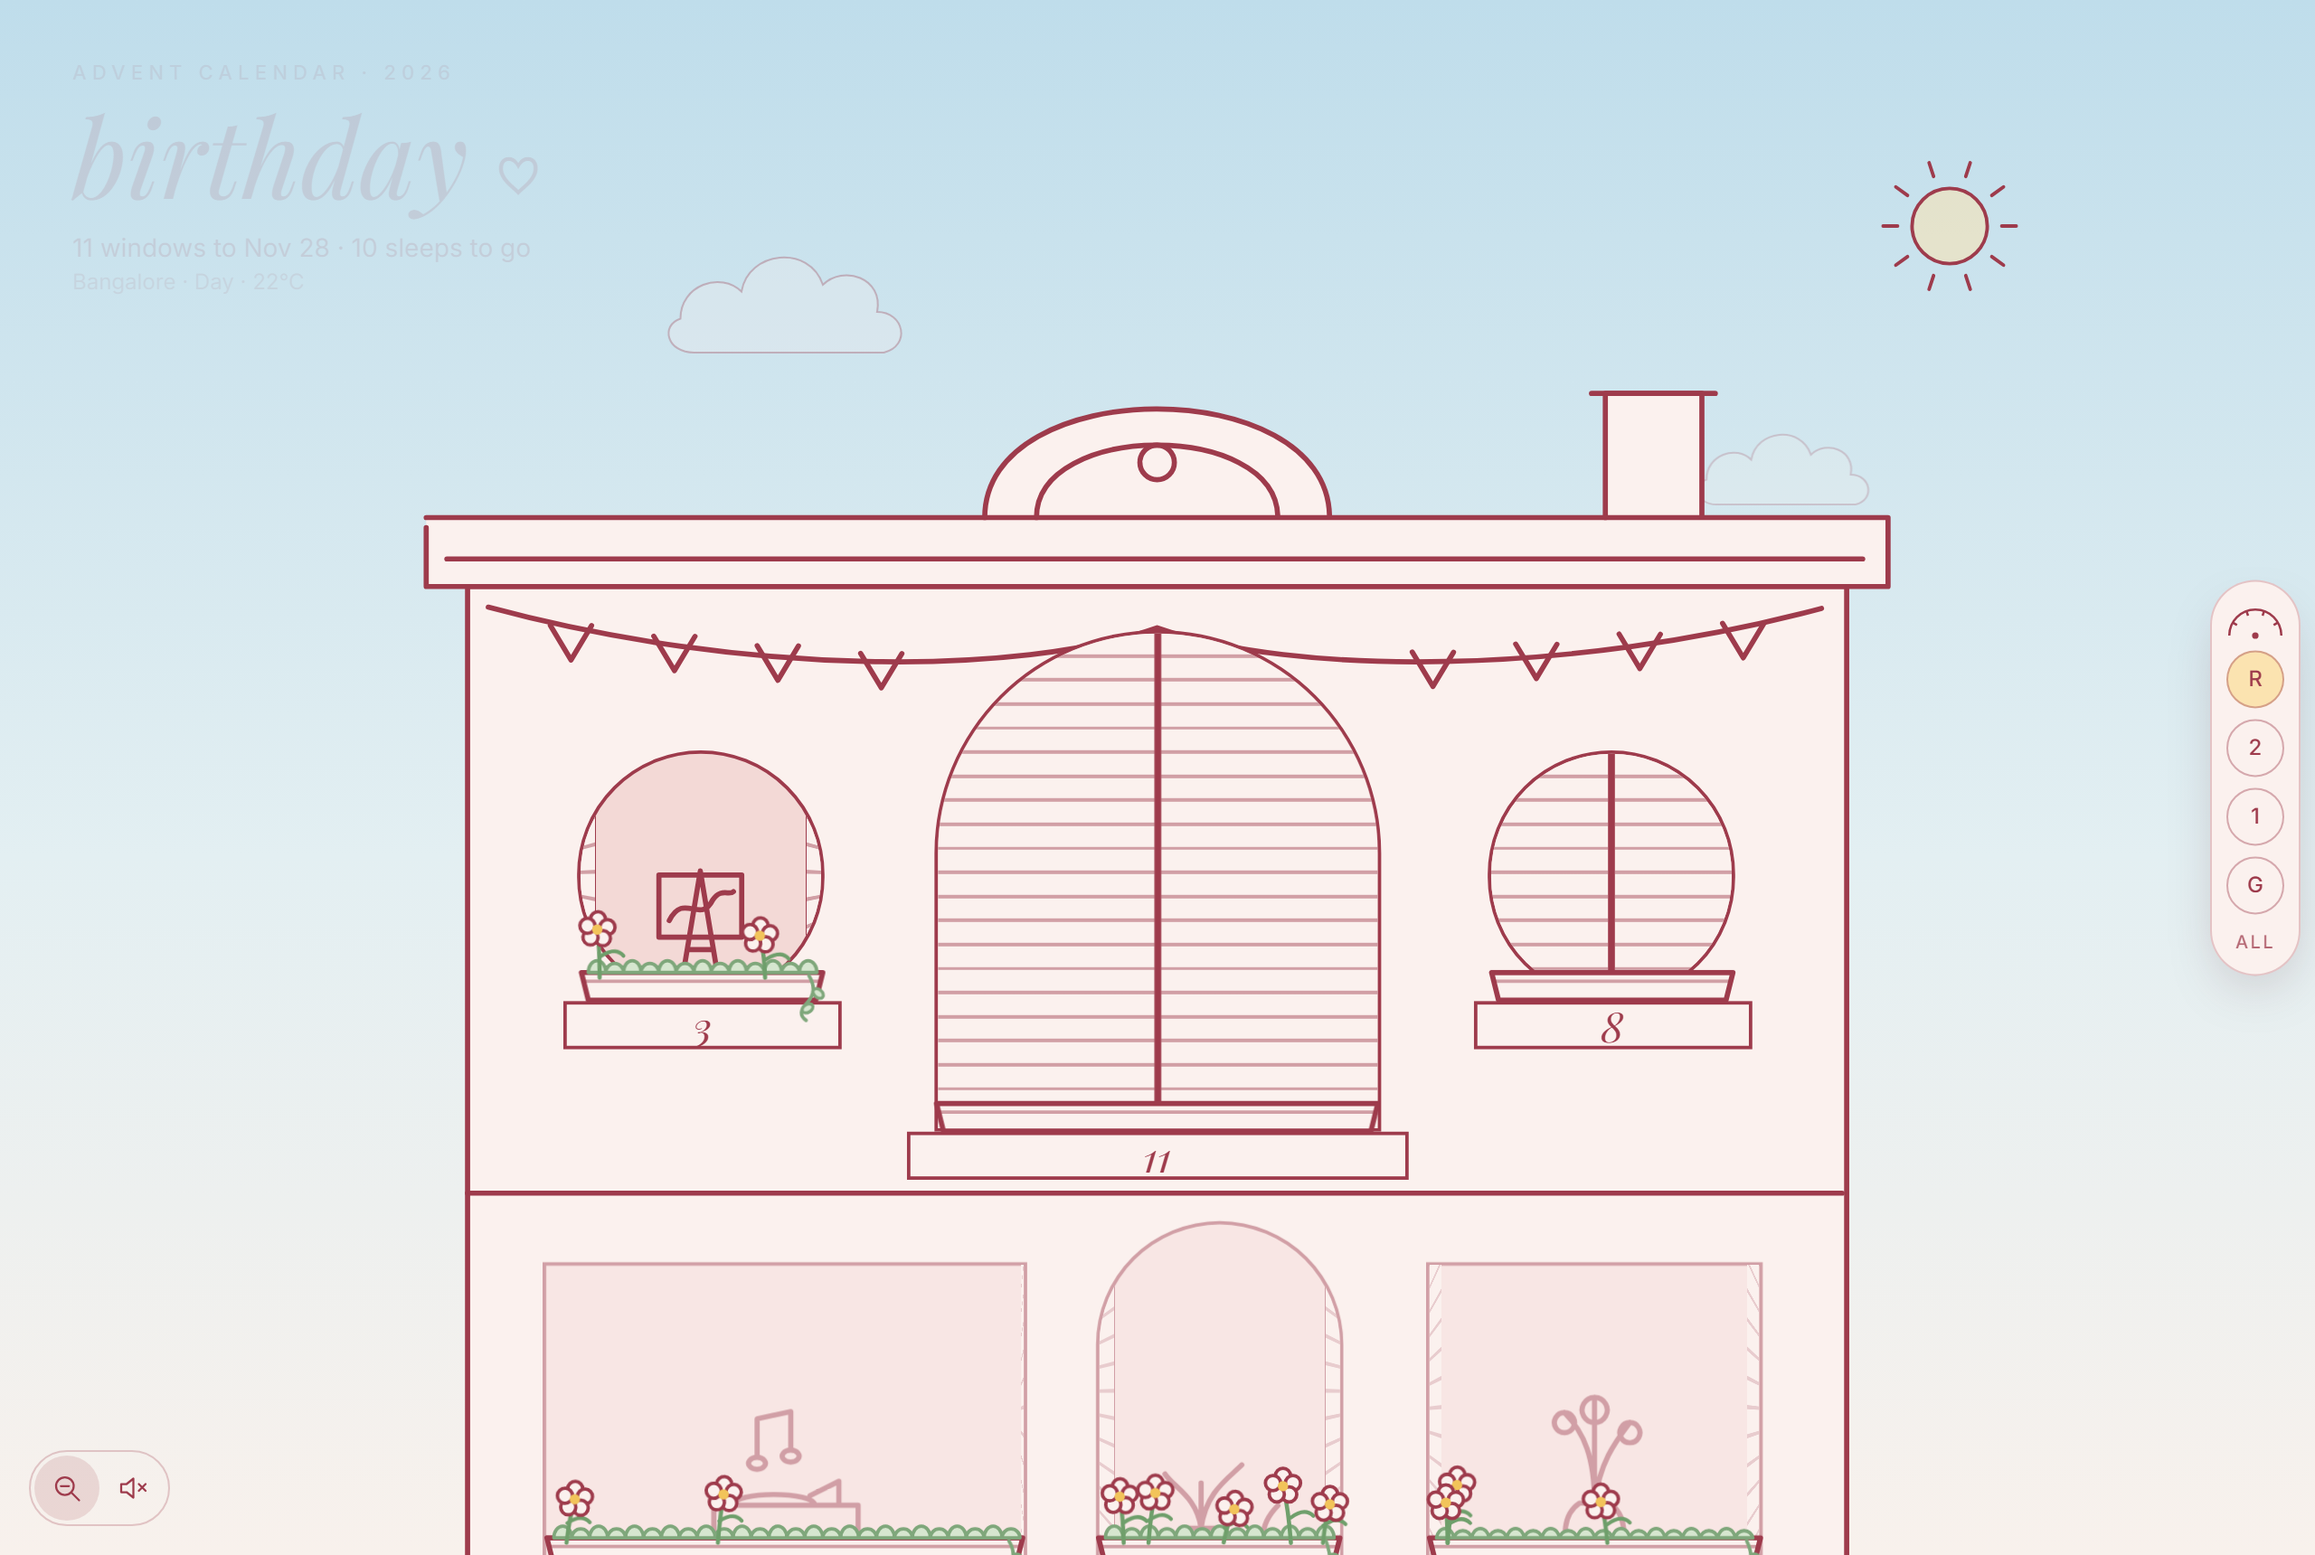
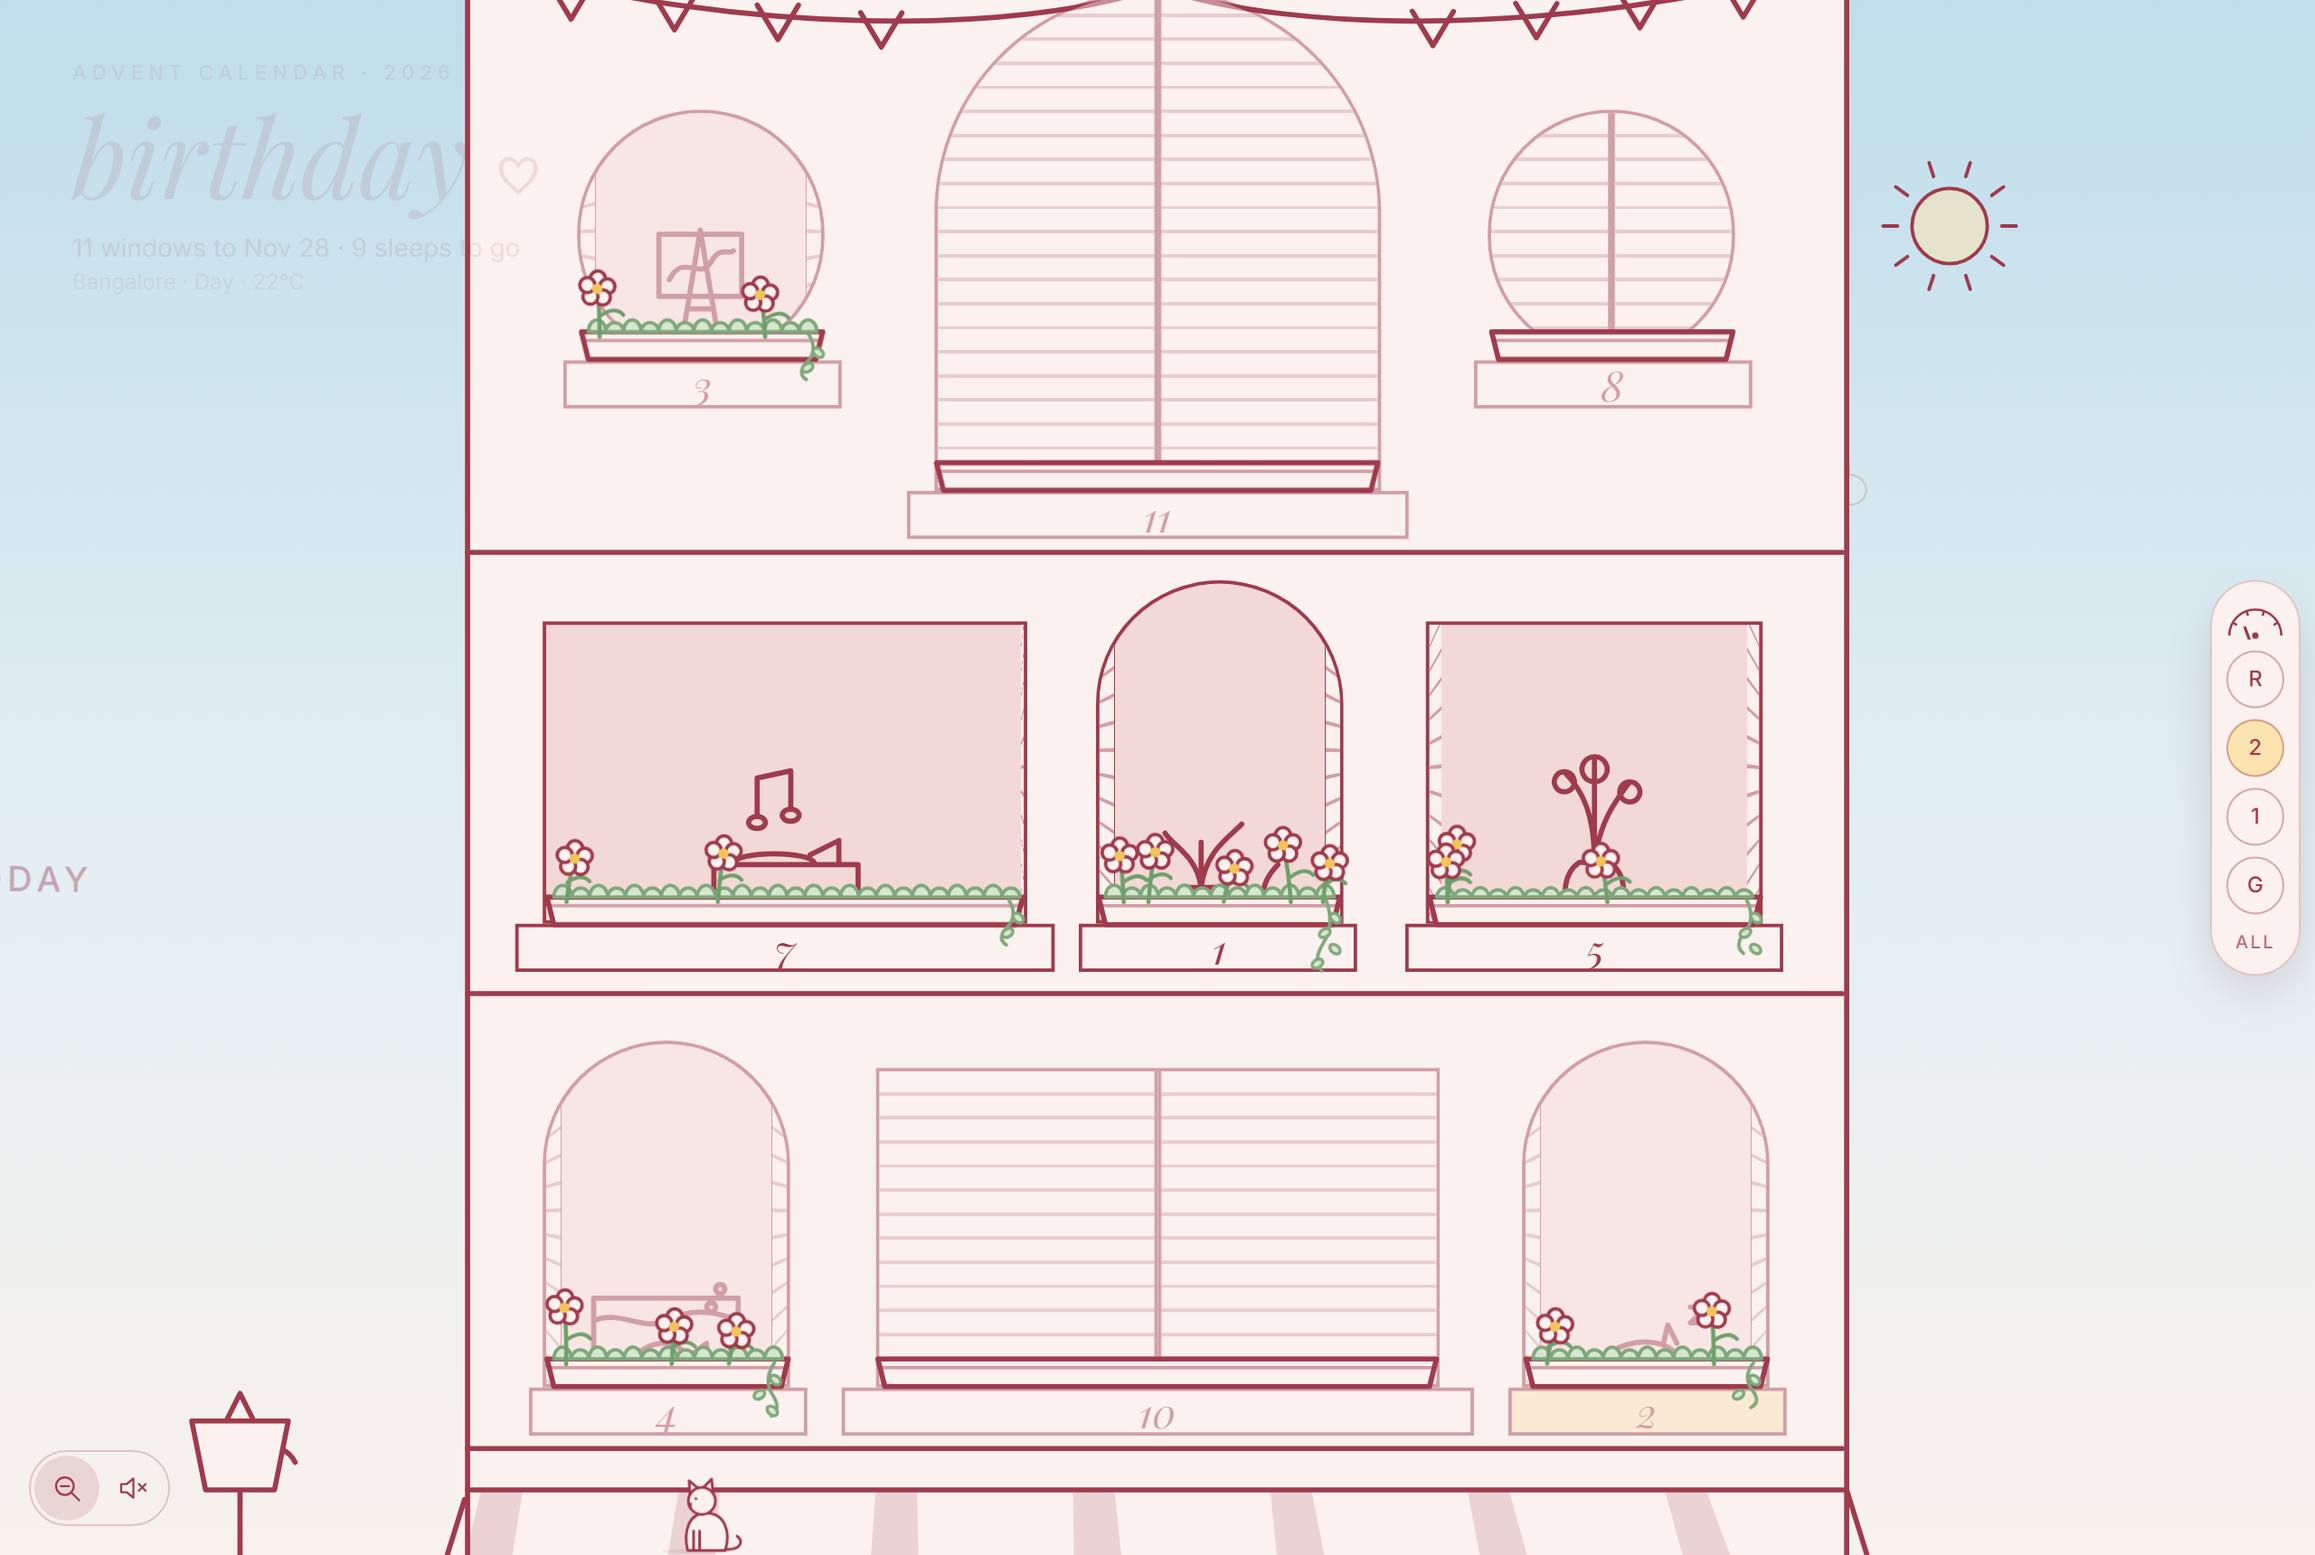
docs: README up to date for day 2, with Mochi in every screenshot

diff --git a/README.md b/README.md
@@ -4,7 +4,8 @@
 
 **An illustrated building with 11 windows, counting down to my birthday on Nov 28.**
 Every day I ship one small build, and the building comes alive with my real work:
-every `git push` lights a window, plants a flower and puts a star in the sky. Live.
+every `git push` lights a window, plants a flower, puts a star in the sky and
+feeds Mochi, the cat who lives on the site. Live.
 
 [**🌐 Visit the live site →**](https://advent-birthday-hng9.vercel.app)
 
@@ -13,10 +14,12 @@ every `git push` lights a window, plants a flower and puts a star in the sky. Li
 ![TypeScript](https://img.shields.io/badge/TypeScript-3178C6?style=flat-square&logo=typescript&logoColor=white)
 ![Supabase](https://img.shields.io/badge/Supabase_Realtime-3ECF8E?style=flat-square&logo=supabase&logoColor=white)
 ![Framer Motion](https://img.shields.io/badge/Framer_Motion-0055FF?style=flat-square&logo=framer&logoColor=white)
+![XState](https://img.shields.io/badge/XState_5-2C3E50?style=flat-square&logo=xstate&logoColor=white)
+![Doors shipped](https://img.shields.io/badge/doors_shipped-3_of_12-9E3B4C?style=flat-square)
 
 </div>
 
-![The building by day: shuttered windows for days still to come, open windows with tiny rooms and flowers in their window boxes, constellations in the sky](docs/screenshots/day.png)
+![The building by day: shuttered windows for days still to come, open windows with tiny rooms and flowers in their window boxes, constellations in the sky, and Mochi the cat somewhere on the façade](docs/screenshots/day.png)
 
 ## What you're looking at
 
@@ -30,6 +33,8 @@ every `git push` lights a window, plants a flower and puts a star in the sky. Li
   in that day's **window box** and adds a **star** to that day's
   **constellation**. Push while someone has the page open and they watch it
   happen.
+- **A cat lives here.** Mochi roams every page, climbing the planters,
+  awning and cornice, and every push drops kibble for her (see door 2).
 - **The sky is real:** Bangalore's actual sky right now (dawn, day, dusk,
   night, rain), from the Open-Meteo weather API.
 
@@ -124,7 +129,7 @@ flowchart LR
   C -- "ok" --> D["record_push()<br/>one Postgres transaction"]
   D --> E[("pushes + doors")]
   E -- "Supabase Realtime" --> F["Every open browser"]
-  F --> G["🪟 window lamp<br/>🌸 flower in its box<br/>⭐ star in its constellation"]
+  F --> G["🪟 window lamp<br/>🌸 flower in its box<br/>⭐ star in its constellation<br/>🐈 kibble for Mochi"]
 ```
 
 1. **GitHub** sends a signed `push` event to `/api/github/webhook`.
@@ -134,7 +139,8 @@ flowchart LR
    Postgres transaction that records the push (deduplicated on GitHub's
    delivery ID), lights today's window, and ships any door tagged `door:N`.
 4. **Supabase Realtime** streams the new rows over a websocket, and every open
-   page grows the flower and star in about a second.
+   page grows the flower and star in about a second, and drops a piece of
+   kibble that Mochi goes and eats.
 
 ## Under the hood
 
@@ -156,6 +162,10 @@ A few things that were fun to figure out:
 - **Resilient deploys.** The webhook and queries detect a database that hasn't
   had the latest migration yet and fall back instead of failing, so code and
   schema can ship in either order.
+- **Brain and body, kept apart.** Mochi's statechart only decides what she
+  wants; the animation loop decides how to get there. So her behaviour is
+  pure logic with unit tests, and the A\* planner and jump physics are pure
+  functions with tests of their own.
 - **Accessibility.** Every window is a real button with a spoken label, there's
   a zoom mode and keyboard navigation, and all motion respects
   `prefers-reduced-motion`.
@@ -165,10 +175,11 @@ A few things that were fun to figure out:
 | | |
 |---|---|
 | **Frontend** | Next.js 16 (App Router) · React 19 · TypeScript · Tailwind CSS 4 · Framer Motion · hand-drawn SVG |
+| **Mochi** | XState 5 statechart · A\* pathfinding · projectile physics · `requestAnimationFrame` loop |
 | **Backend** | Next.js route handlers · Supabase (Postgres, Row Level Security, Realtime) |
 | **Data** | GitHub push webhooks · Open-Meteo weather API |
 | **Hosting** | Vercel (auto-deploys on every push to `main`) |
-| **Tooling** | pnpm workspaces · headless-Chrome screenshot script |
+| **Tooling** | pnpm workspaces · `node:test` unit tests · headless-Chrome screenshot script |
 
 ```
 apps/web/                 the Next.js site
@@ -176,6 +187,8 @@ apps/web/                 the Next.js site
   app/door/[n]/           one page per door, sealed until its date
   app/api/github/webhook/ signed GitHub push → record_push()
   components/building/    façade, windows, window boxes, constellations, elevator
+  components/mochi/       Mochi's drawing, runtime loop, live statechart diagram
+  lib/mochi/              her statechart and world model (A*, jump arcs), with tests
   lib/                    unlock rules (IST), sky, constellations, file kinds
 packages/garden-ui/       shared design tokens, motion presets, DoorFrame
 supabase/migrations/      schema, row-level security, seed, record_push()
@@ -191,6 +204,7 @@ Vercel and the GitHub webhook, plus troubleshooting:
 pnpm install
 cp apps/web/.env.example apps/web/.env.local   # set DEV_UNLOCK_ALL=true
 pnpm dev                                       # http://localhost:3000/?preview=mixed
+pnpm --filter web test                         # unit tests (Mochi's brain and route planner)
 ```
 
 ---
